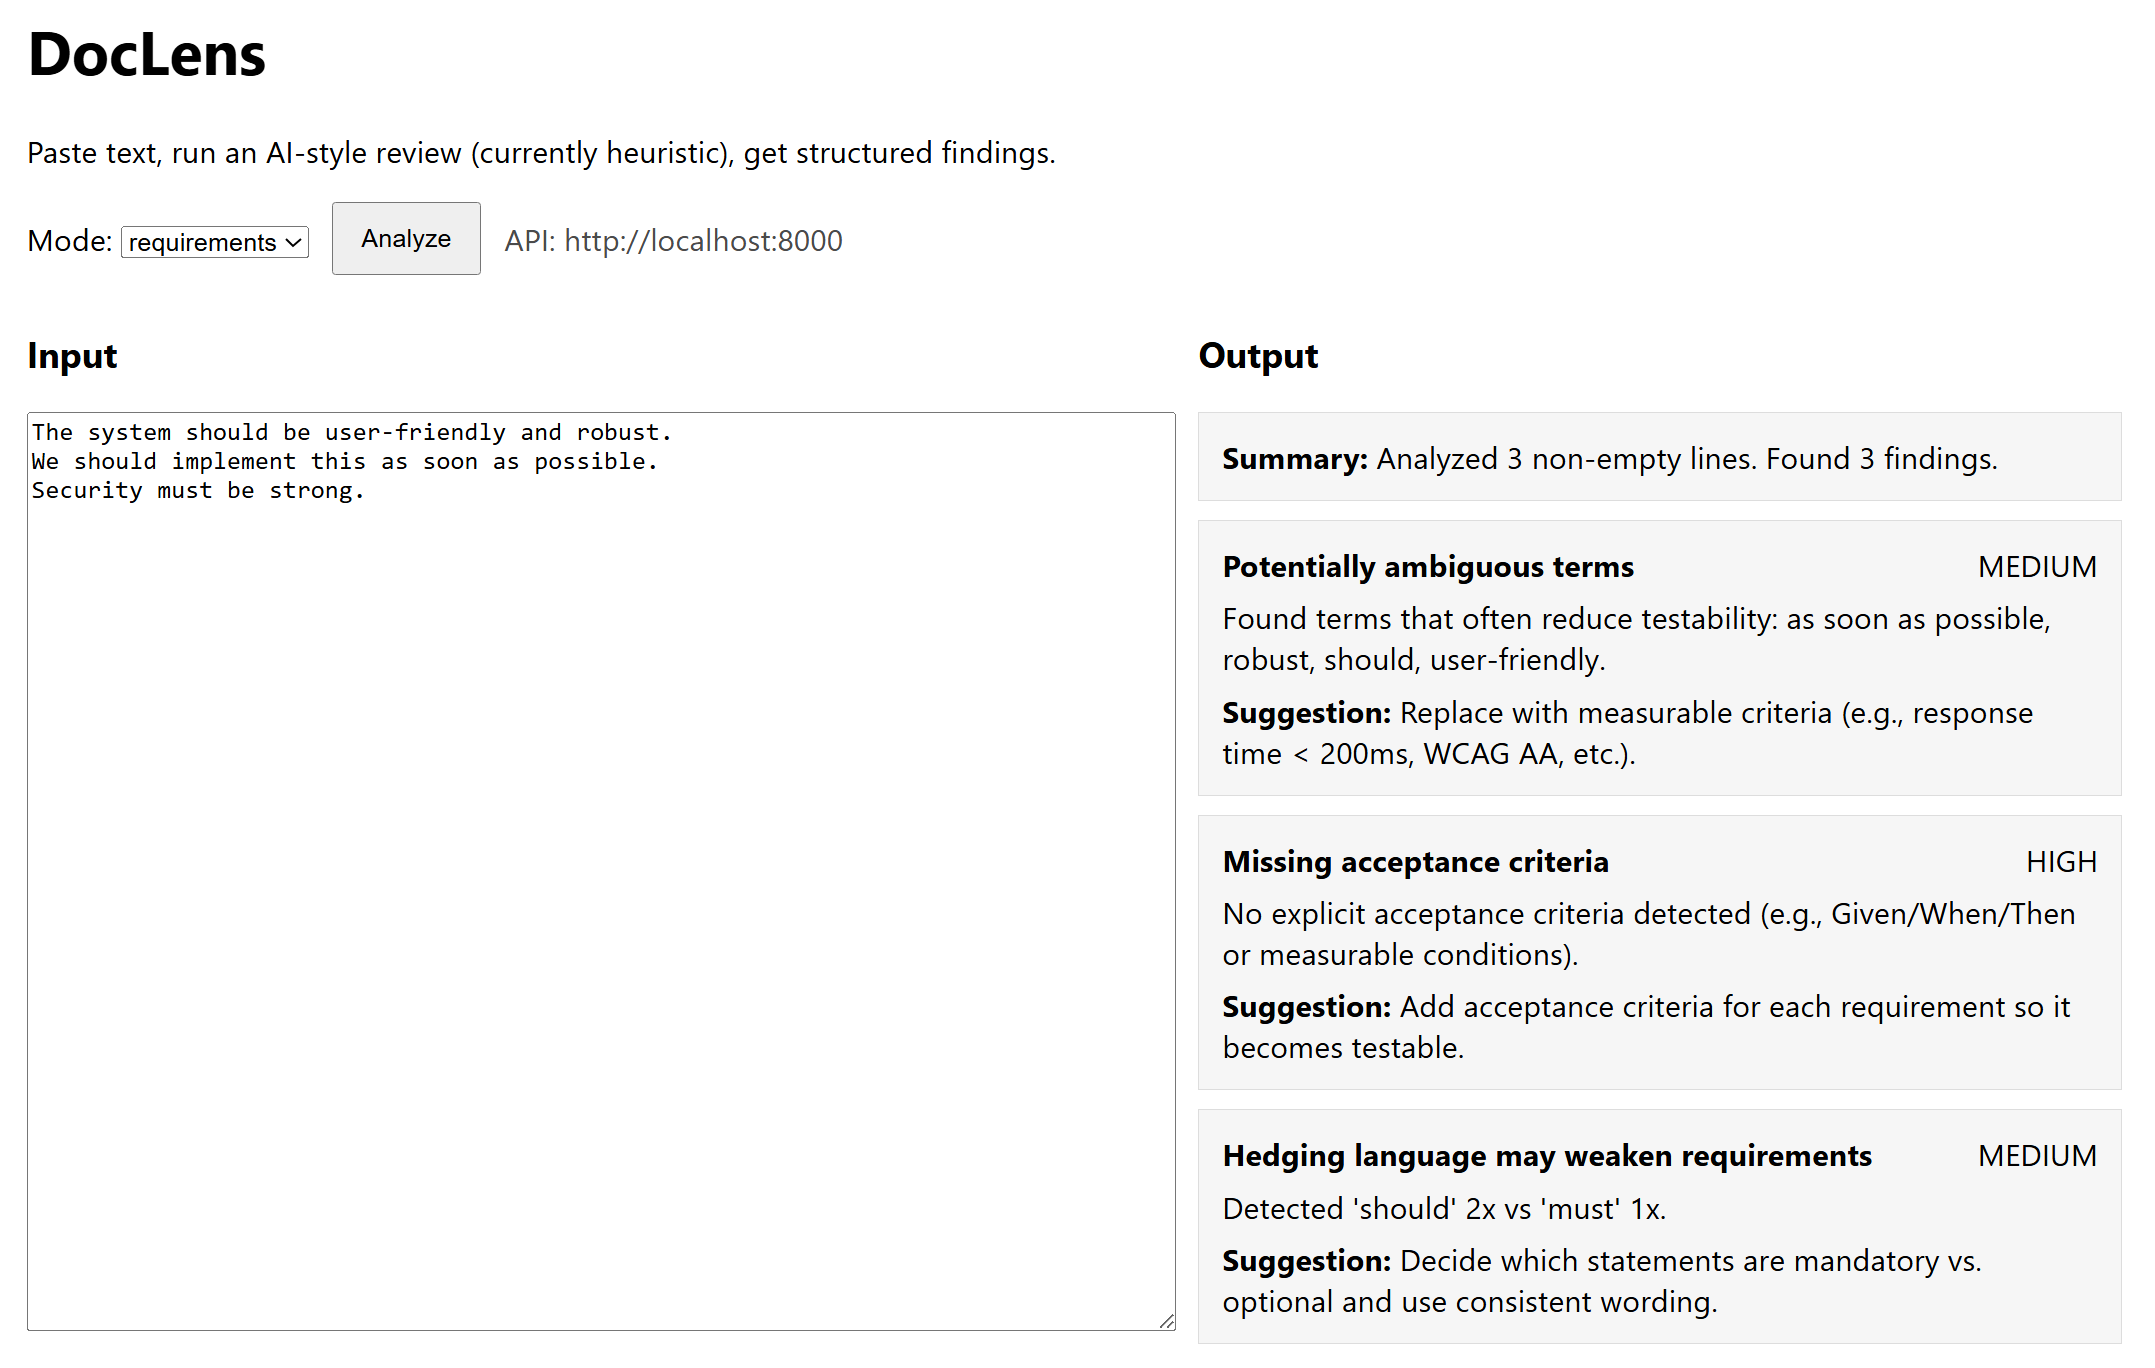
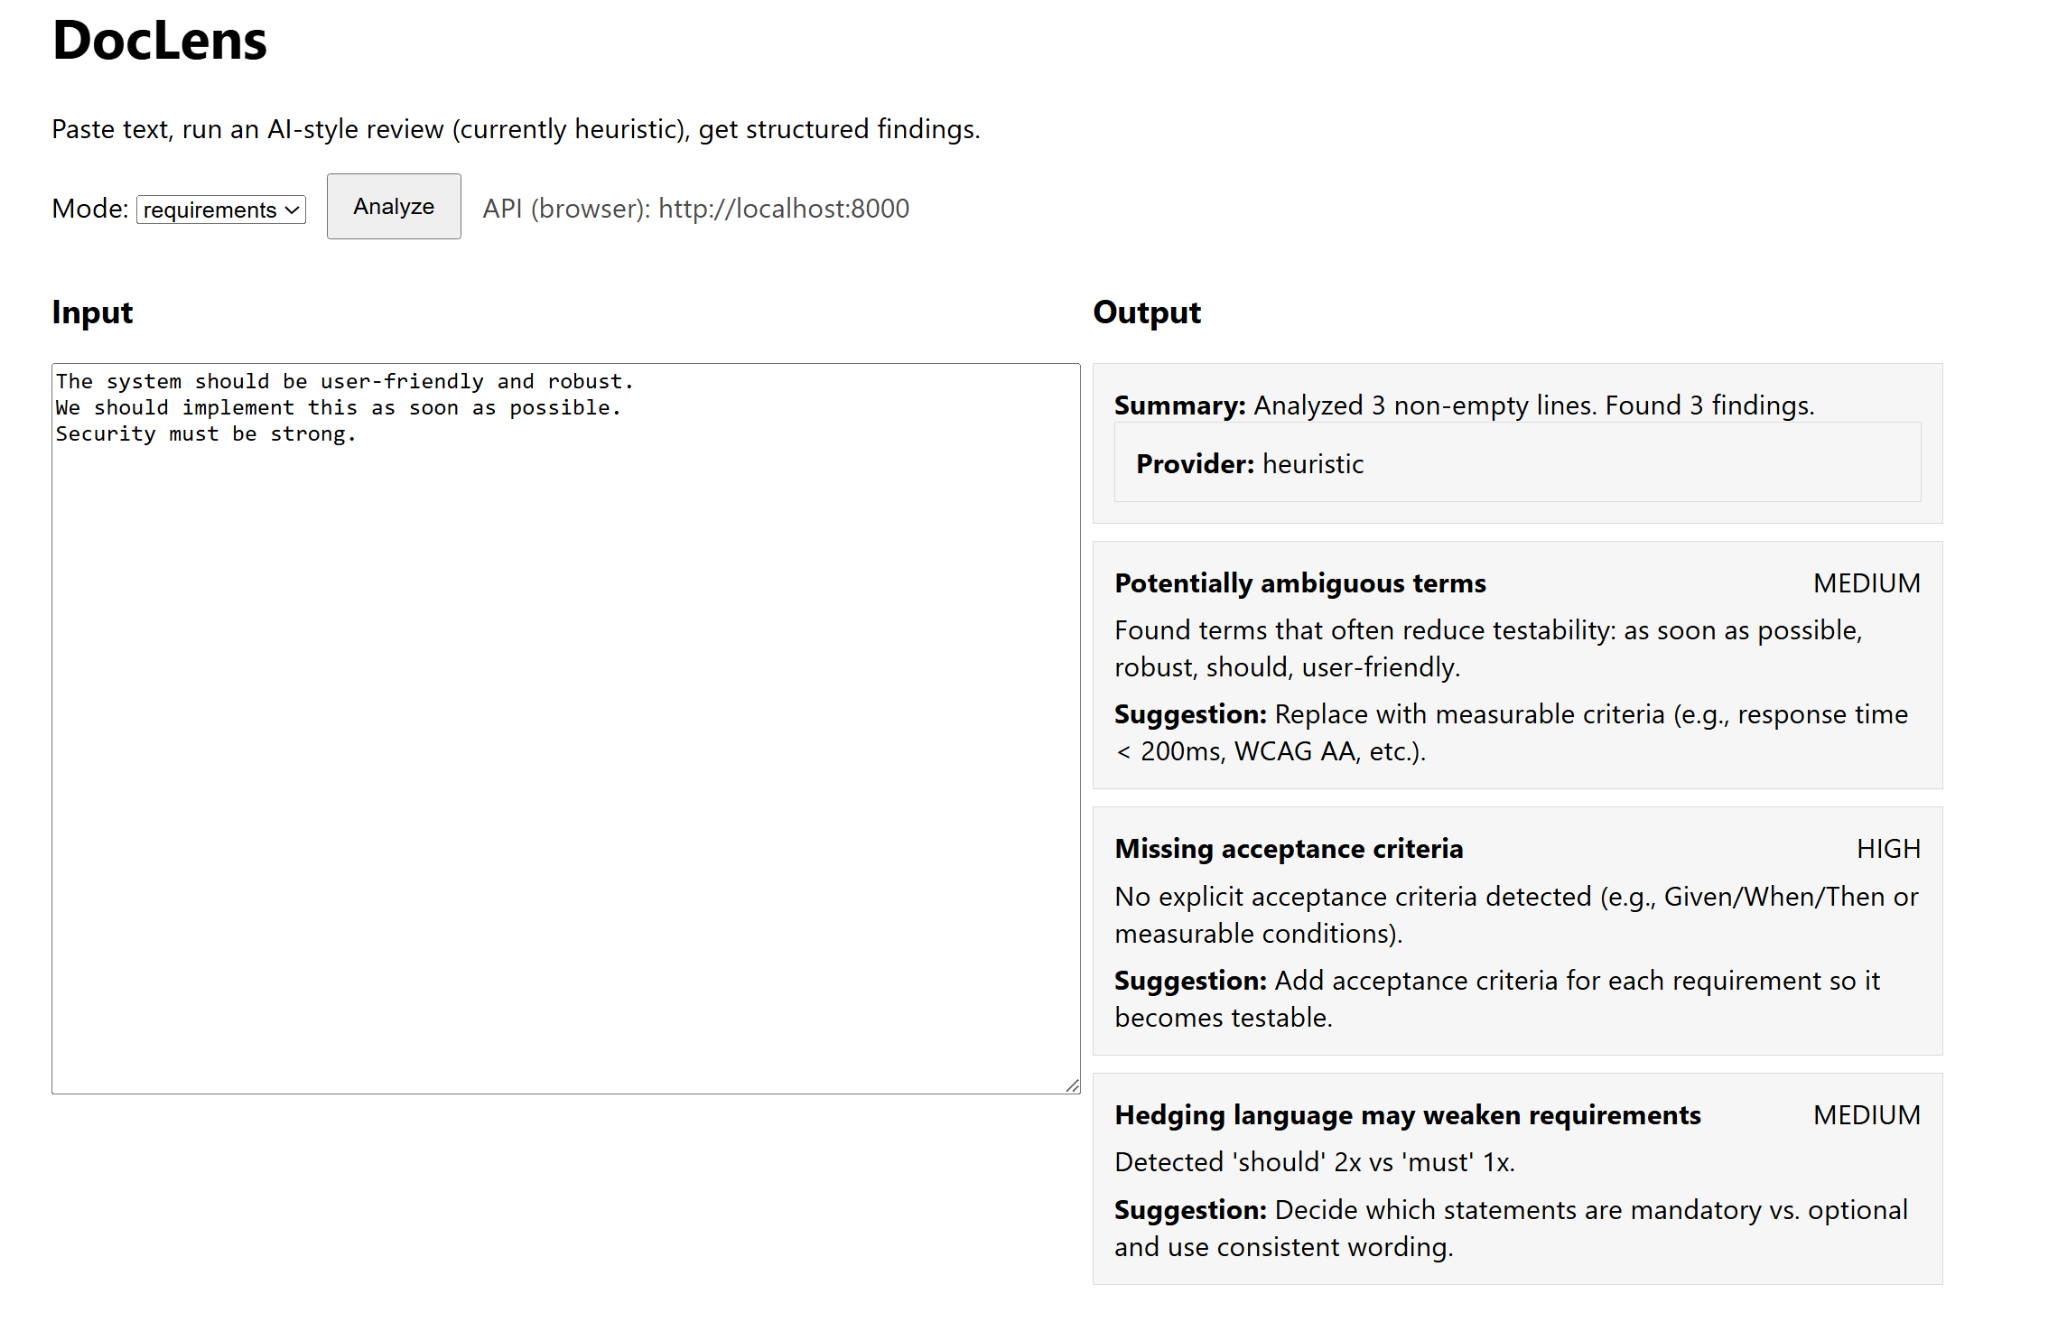
web: show provider and use apiBase in label

diff --git a/web/src/App.tsx b/web/src/App.tsx
@@ -62,7 +62,7 @@ export default function App() {
           Analyze
         </button>
 
-        <span style={{ opacity: 0.7 }}>API: {apiBase}</span>
+        <span style={{ opacity: 0.7 }}>API (browser): {apiBase}</span>
       </div>
 
       <div
@@ -114,6 +114,15 @@ export default function App() {
                 }}
               >
                 <b>Summary:</b> {result.summary}
+                <div
+                  style={{
+                    padding: 12,
+                    background: "#f6f6f6",
+                    border: "1px solid #ddd",
+                  }}
+                >
+                  <b>Provider:</b> {result.provider}
+                </div>
               </div>
 
               {result.findings.length === 0 ? (

diff --git a/web/src/api.ts b/web/src/api.ts
@@ -9,6 +9,7 @@ export type Finding = {
 };
 
 export type AnalyzeResponse = {
+  provider: string;
   summary: string;
   findings: Finding[];
 };

diff --git a/api/app/providers.py b/api/app/providers.py
@@ -1,0 +1,43 @@
+import os
+from abc import ABC, abstractmethod
+from typing import List
+
+from .schemas import Finding
+
+
+class Analyzer(ABC):
+    @abstractmethod
+    def analyze(self, text: str, mode: str) -> tuple[str, List[Finding]]:
+        raise NotImplementedError
+
+
+class HeuristicAnalyzer(Analyzer):
+    def __init__(self):
+        from .analyze import analyze_requirements, analyze_general
+
+        self._analyze_requirements = analyze_requirements
+        self._analyze_general = analyze_general
+
+    def analyze(self, text: str, mode: str) -> tuple[str, List[Finding]]:
+        if mode == "requirements":
+            return self._analyze_requirements(text)
+        return self._analyze_general(text)
+
+
+class LlmAnalyzer(Analyzer):
+    def analyze(self, text: str, mode: str) -> tuple[str, List[Finding]]:
+        # Placeholder for future integration (OpenAI / Ollama / etc.)
+        raise RuntimeError(
+            "LLM provider selected (DOCLENS_PROVIDER=llm) but no LLM backend is configured yet."
+        )
+
+
+def get_analyzer() -> Analyzer:
+    provider = os.getenv("DOCLENS_PROVIDER", "heuristic").strip().lower()
+    if provider == "heuristic":
+        return HeuristicAnalyzer()
+    if provider == "llm":
+        return LlmAnalyzer()
+    raise ValueError(
+        f"Unknown DOCLENS_PROVIDER: {provider!r} (expected 'heuristic' or 'llm')."
+    )

diff --git a/api/app/main.py b/api/app/main.py
@@ -1,8 +1,12 @@
+import os
+
 from fastapi import FastAPI
 from fastapi.middleware.cors import CORSMiddleware
+from .providers import get_analyzer
 
 from .schemas import AnalyzeRequest, AnalyzeResponse
-from .analyze import analyze_requirements, analyze_general
+
+# from .analyze import analyze_requirements, analyze_general - not inuse since we have provider abstraction now.
 
 
 app = FastAPI(title="DocLens API", version="0.1.0")
@@ -22,9 +26,7 @@ def healthz():
 
 @app.post("/v1/analyze", response_model=AnalyzeResponse)
 def analyze(req: AnalyzeRequest):
-    if req.mode == "requirements":
-        summary, findings = analyze_requirements(req.text)
-    else:
-        summary, findings = analyze_general(req.text)
-
-    return AnalyzeResponse(summary=summary, findings=findings)
+    analyzer = get_analyzer()
+    summary, findings = analyzer.analyze(req.text, req.mode)
+    provider = os.getenv("DOCLENS_PROVIDER", "heuristic").strip().lower()
+    return AnalyzeResponse(provider=provider, summary=summary, findings=findings)

diff --git a/api/app/schemas.py b/api/app/schemas.py
@@ -19,5 +19,6 @@ class Finding(BaseModel):
 
 
 class AnalyzeResponse(BaseModel):
+    provider: str
     summary: str
     findings: List[Finding]

diff --git a/api/app/analyze.py b/api/app/analyze.py
@@ -1,4 +1,6 @@
 import re
+import os
+from .providers import get_analyzer
 from typing import List
 from .schemas import Finding
 

diff --git a/README.md b/README.md
@@ -2,6 +2,10 @@
 
 - Windows + Docker, VS Code-first.
 
+# Screenshot
+
+![DocLens UI](docs/screenshot-ui.png)
+
 ## Activate python enviroment before
 
 **.\activare.ps1**
@@ -10,12 +14,13 @@
 
 ```Open powershell in VScode and run :
 
-docker compose up --build
+cd: X:\pathway\of\dockLens eg:  X:\dev\dockLens --> docker compose up --build
+
 ```
 
 Stop it by write :
 
-docker compose down
+docker compose down or q in server terminal window for stop server running.
 
 # DocLens
 
